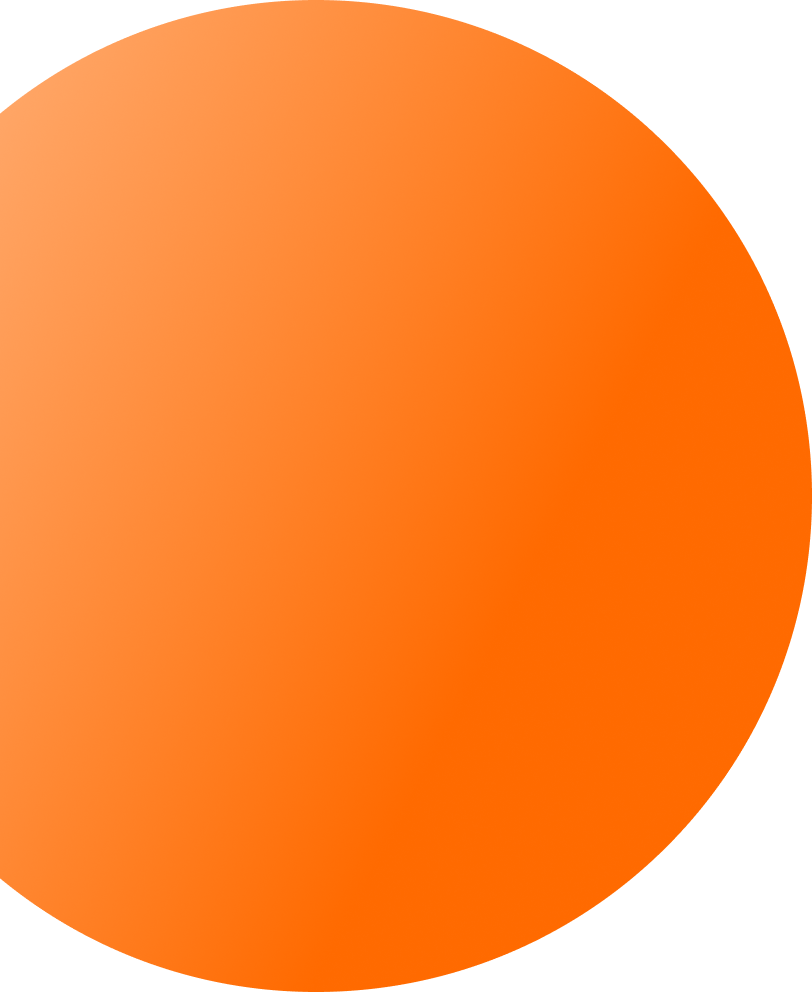
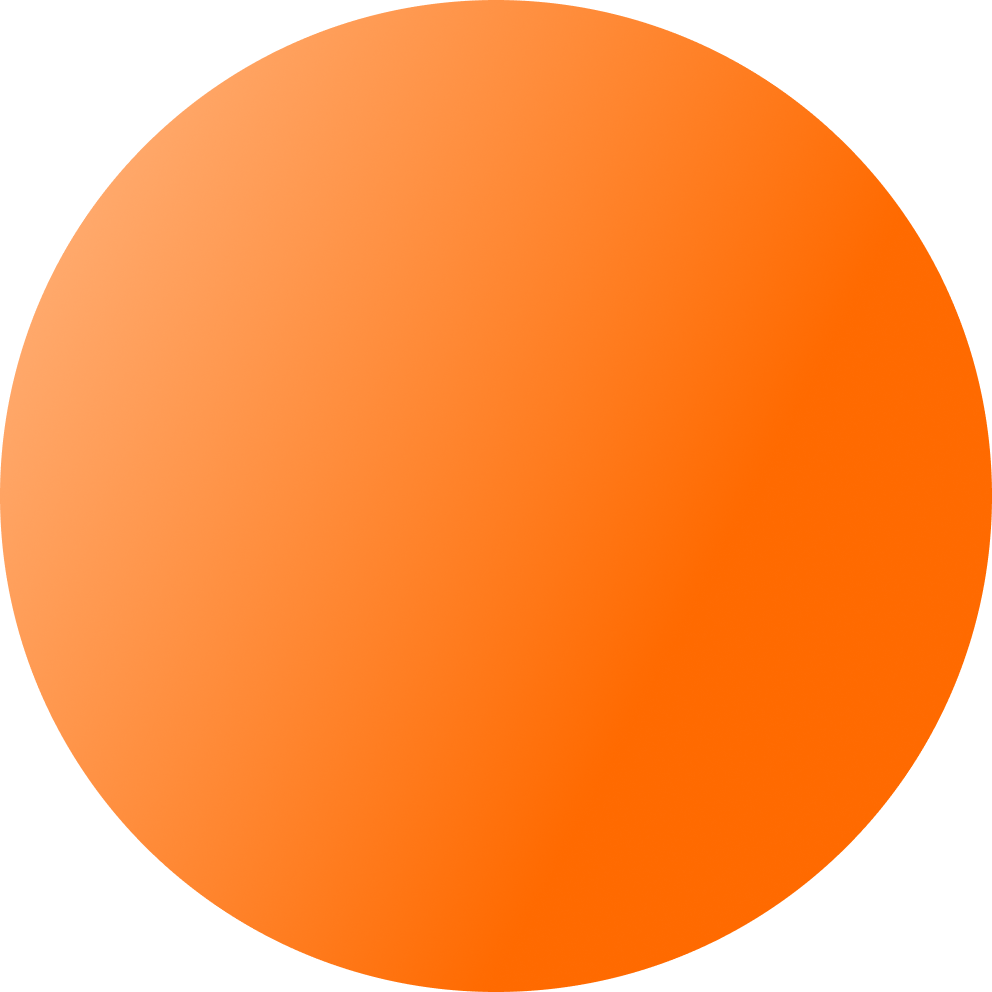
adaptation corrections on about page

diff --git a/assets/style/components/_about.scss b/assets/style/components/_about.scss
@@ -3,7 +3,7 @@
   overflow-x: hidden;
   &__oranle-ellipse {
     position: absolute;
-    left: 0;
+    left: rem(-90px);
     top: rem(270px);
     z-index: 0;
   }
@@ -12,30 +12,6 @@
     right: rem(-10px);
     bottom: rem(302px);
     z-index: 0;
-  }
-  &-card {
-    margin: rem(24px 0);
-    padding: rem(64px 60px);
-    position: relative;
-    z-index: 1;
-    background-color: #fff;
-    &__header {
-      padding: rem(20px 0 40px);
-      font-size: rem(49px);
-      font-weight: bold;
-      text-align: center;
-    }
-    &__content {
-      padding: rem(10px 125px 0px);
-      &--txt {
-        font-weight: 300;
-        font-size: rem(25px);
-        line-height: rem(48px);
-      }
-      &--txt:not(:last-child) {
-        margin-bottom: rem(49px);
-      }
-    }
   }
   &-image-card {
     margin: rem(24px 0);
@@ -90,25 +66,11 @@
     padding-top: 0;
     &__oranle-ellipse {
       top: rem(305px);
-    }
-    &-card {
-      margin: 0;
-      padding: 0;
-      &__header {
-        margin: 0;
-        padding: rem(36px 15px 47px);
-        font-size: rem(25px);
-      }
-      &__content {
-        padding: rem(0 30px);
-        &--txt {
-          font-size: rem(16px);
-          line-height: rem(32px);
-        }
-        &--txt:not(:last-child) {
-          margin-bottom: rem(25px);
-        }
-      }
+      display: flex;
+      left: 0;
+      width: 100vw;
+      justify-content: center;
+      align-items: center;
     }
     &-image-card {
       padding: rem(0 20px);
@@ -146,11 +108,6 @@
 }
 @media (max-width: $sm){
   .about{
-    &-card{
-      &__content{
-        padding: rem(0 17px);
-      }
-    }
     &-image-card{
       &__img {
         top: 0;

diff --git a/assets/style/components/_general-top-card.scss b/assets/style/components/_general-top-card.scss
@@ -1,0 +1,52 @@
+ .top-card {
+      margin: rem(24px 0);
+      padding: rem(64px 60px);
+      position: relative;
+      z-index: 1;
+      background-color: #fff;
+      &__header {
+        padding: rem(20px 0 40px);
+        font-size: rem(49px);
+        font-weight: bold;
+        text-align: center;
+      }
+      &__content {
+        padding: rem(10px 125px 0px);
+        &--txt {
+          font-weight: 300;
+          font-size: rem(25px);
+          line-height: rem(48px);
+        }
+        &--txt:not(:last-child) {
+          margin-bottom: rem(49px);
+        }
+      }
+    }
+    @media (max-width: $xs){
+        .top-card {
+          margin: 0;
+          padding: 0;
+          &__header {
+            margin: 0;
+            padding: rem(36px 15px 47px);
+            font-size: rem(25px);
+          }
+          &__content {
+            padding: rem(0 30px);
+            &--txt {
+              font-size: rem(16px);
+              line-height: rem(32px);
+            }
+            &--txt:not(:last-child) {
+              margin-bottom: rem(25px);
+            }
+          }
+        }
+    }
+@media (max-width: $sm){
+ .top-card{
+      &__content{
+        padding: rem(0 17px);
+      }
+    }
+}

diff --git a/pages/about.vue b/pages/about.vue
@@ -3,13 +3,13 @@
     <div class="about__oranle-ellipse">
       <v-img
         :src="require('@/assets/images/about/orangeEllipse.png')"
-        :height="494"
-        :width="403"
+        :height="496"
+        :width="496"
       />
     </div>
     <v-layout row wrap justify-center align-center>
       <v-flex xs11 grow pa-4>
-        <AboutCard
+        <TopCard
           :header="aboutWorkImpact.header"
           :content="aboutWorkImpact.content"
         />
@@ -63,14 +63,14 @@
 import evolvingImg from '@/assets/images/about/evolvingImg.png';
 import wild from '@/assets/images/about/wild.png';
 import multiCircle from '@/assets/images/about/multiCircle.png';
-import AboutCard from '@/components/about/AboutCard';
+import TopCard from '@/components/general/TopCard';
 import AboutImageCard from '@/components/about/AboutImageCard';
 import AboutSignUp from '@/components/about/AboutSignUp';
 
 export default {
   name: 'About',
   components: {
-    AboutCard,
+    TopCard,
     AboutImageCard,
     AboutSignUp
   },

diff --git a/components/general/TopCard.vue b/components/general/TopCard.vue
@@ -1,14 +1,14 @@
 <template>
-  <div class="about-card base-card base-card_default base-card-shadow">
+  <div class="top-card base-card base-card_default base-card-shadow">
     <v-layout row wrap justify-center align-center>
       <v-flex v-if="header" xs10>
-        <h2 class="about-card__header">
+        <h2 class="top-card__header">
           {{ header }}
         </h2>
       </v-flex>
       <v-flex xs12>
-        <div v-if="content" class="about-card__content">
-          <p v-for="contentTxt in content" :key="contentTxt.id" class="about-card__content--txt">
+        <div v-if="content" class="top-card__content">
+          <p v-for="contentTxt in content" :key="contentTxt.id" class="top-card__content--txt">
             {{ contentTxt }}
           </p>
         </div>
@@ -19,7 +19,7 @@
 
 <script>
 export default {
-  name: 'Card',
+  name: 'TopCard',
   props: {
     header: {
       type: String,

diff --git a/assets/style/components/index.scss b/assets/style/components/index.scss
@@ -10,3 +10,6 @@
 @import 'dashboard';
 @import 'dashboard-freelancer';
 @import 'about';
+@import 'how-it-works';
+@import 'general-top-card';
+

diff --git a/assets/style/components/_how-it-works.scss b/assets/style/components/_how-it-works.scss
@@ -1,0 +1,5 @@
+.how-it-works {
+  &-image-card {
+
+  }
+}
